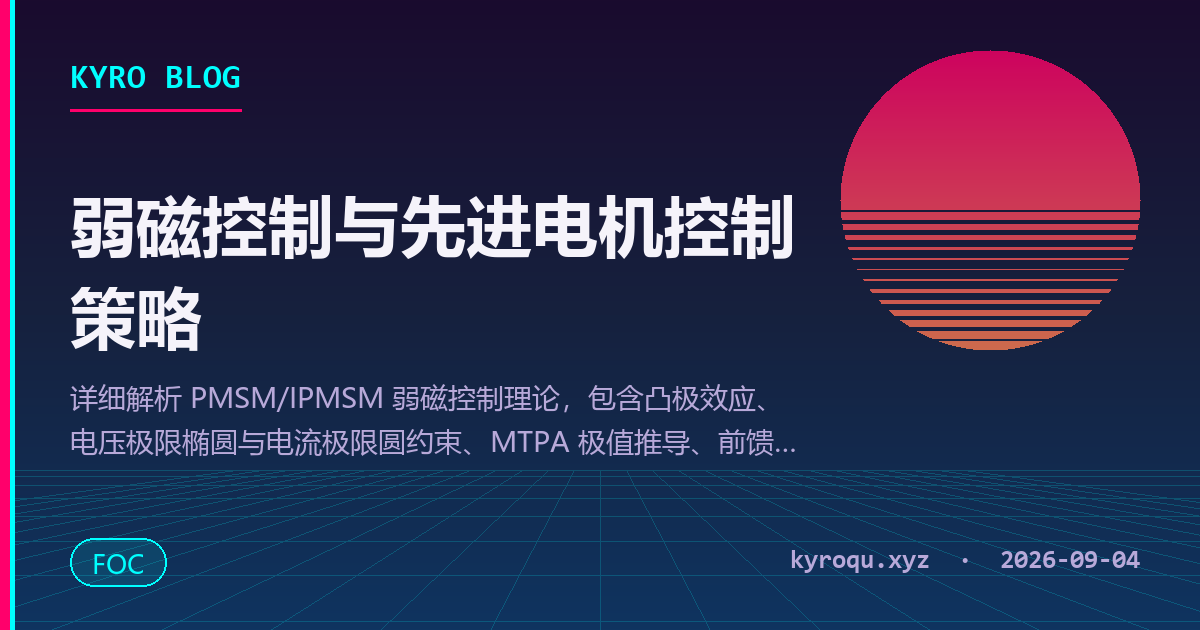
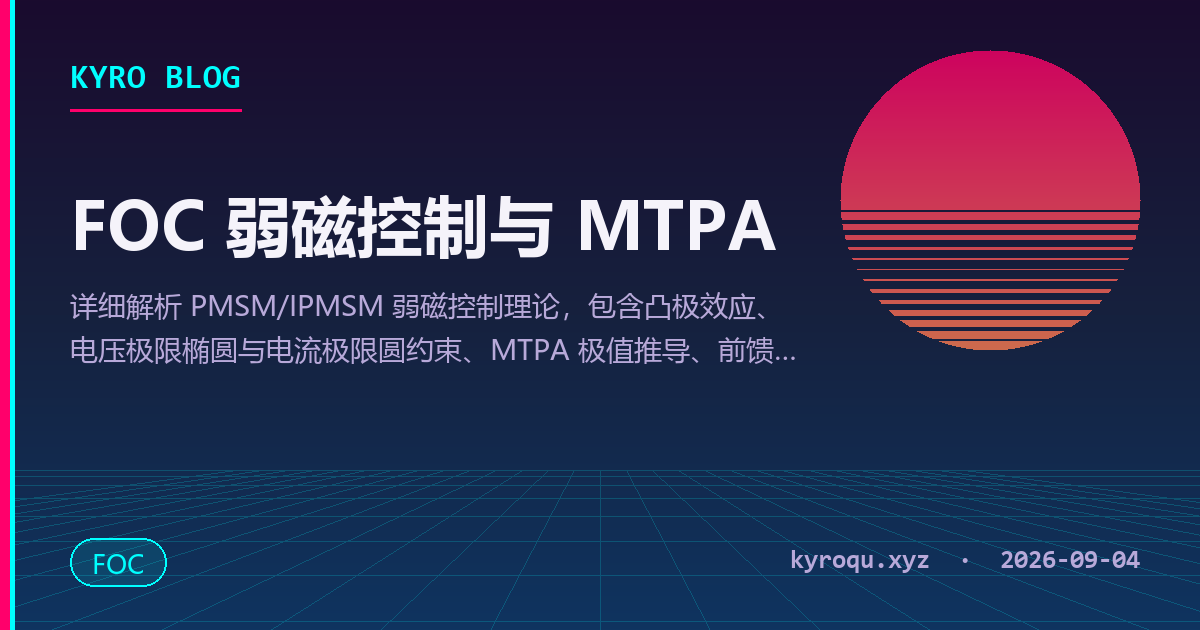
Update post title: FOC 弱磁控制与 MTPA

Changed region(s): [[0.0617, 0.3016, 0.6783, 0.4222], [0.0617, 0.6032, 0.6475, 0.7238], [0.0617, 0.4524, 0.6475, 0.573]]

diff --git a/content/posts/foc-field-weakening.md b/content/posts/foc-field-weakening.md
@@ -1,7 +1,7 @@
 ---
-title: "弱磁控制与先进电机控制策略"
+title: "FOC 弱磁控制与 MTPA"
 subtitle: "从凸极特性、极限椭圆约束到 MTPA 与高速弱磁调速"
-date: 2026-09-04T16:52:44+08:00
+date: 2026-09-04T18:33:28+08:00
 draft: false
 tags: ["FOC"]
 featured: false
